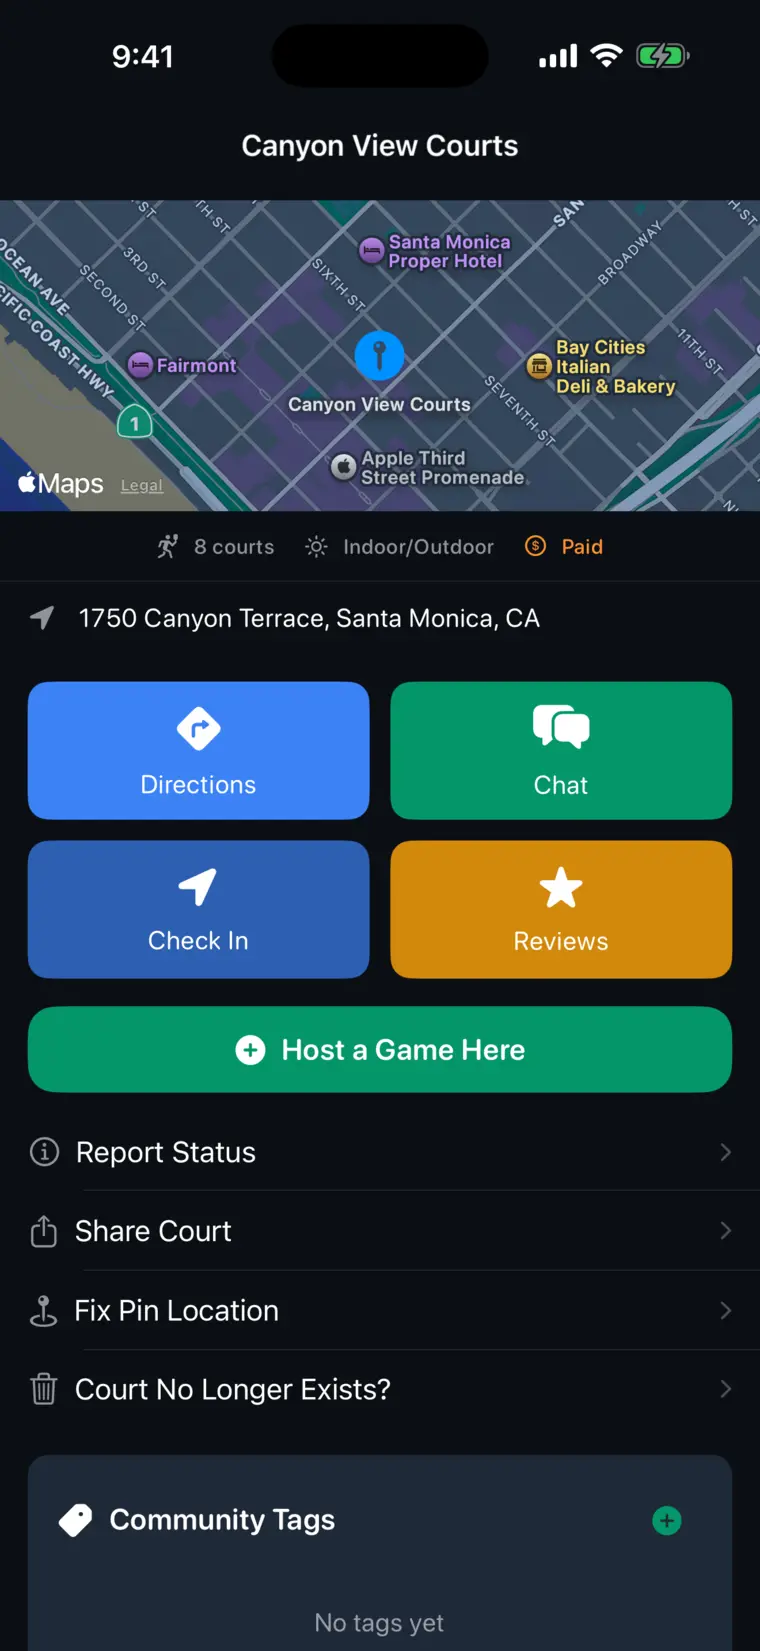
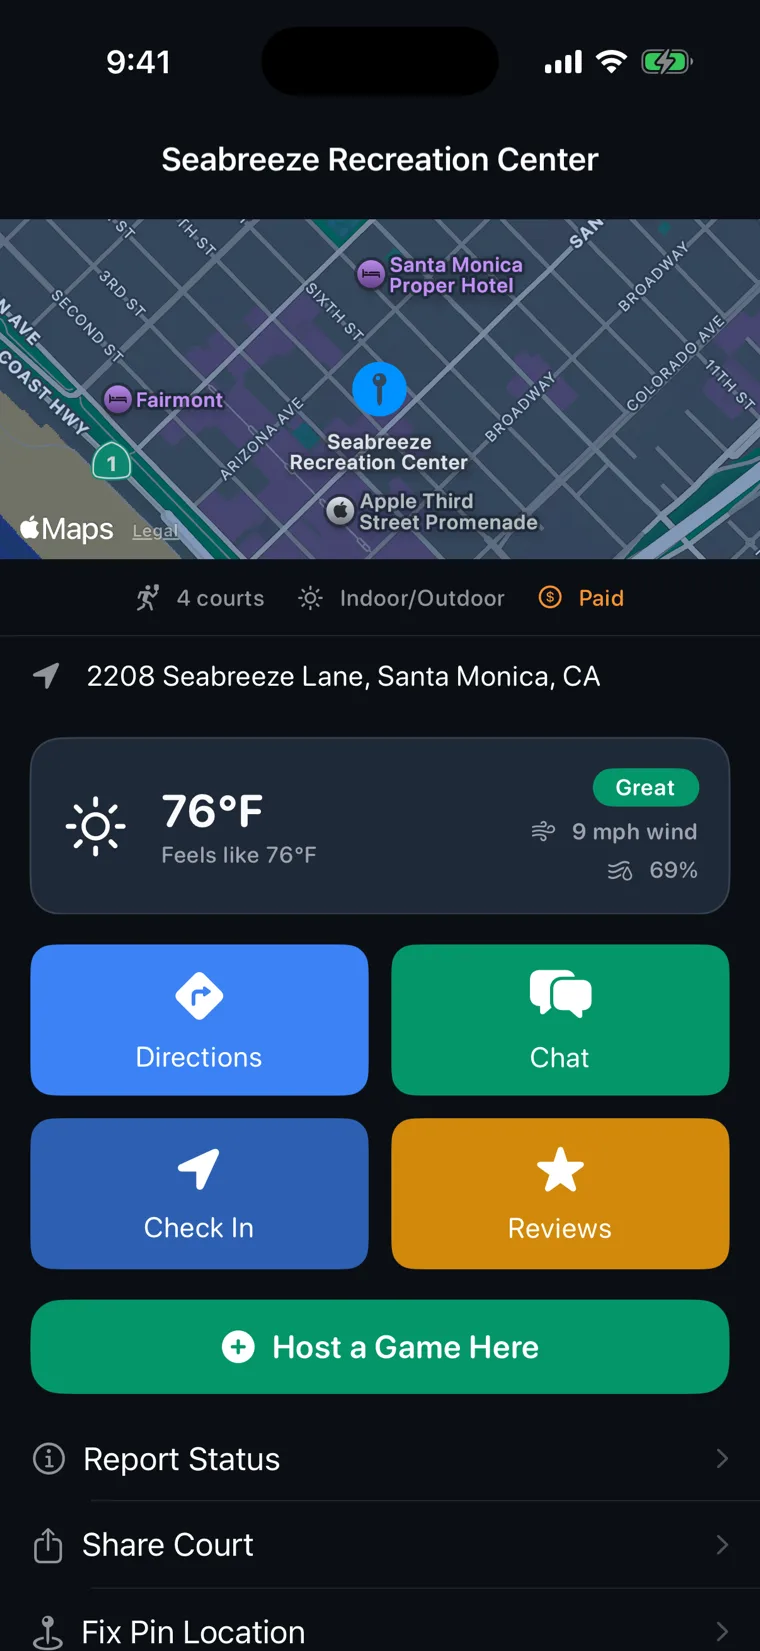
fix(images): the court screen was a build older than the conditions card
You were right. images/app/courts-detail.webp showed the court page as it
looked BEFORE the conditions card shipped — no weather module at all, straight
from the address to the action tiles. It appears six times, including as the
homepage hero's fetchpriority="high" preload, so it was the first thing a
visitor saw of the product.

Replaced from the current master:
qa/marketing-account/raw-captures/2026-08-05-iphone-dark/42-court-detail.png —
dark, correct aspect, fictional fixture venue, and it carries the conditions
card (76F, feels like 76F, Great, 9 mph wind, 69%) the shipping app renders.

What the audit turned up on the way:

  - s2-live-scoring.webp and s6-player-stats.webp on the site are byte-for-byte
    the build-213 captures. Those were already current; courts-detail was the
    outlier.

  - qa/marketing-account/make-web-crops.py already produces TWENTY web crops
    traced to build-213 masters, generated 2026-08-24 under the owner directive
    "reuse the current RAW captures whenever they truthfully show the shipping
    product ... always from the original master". The website uses none of them.
    Worth wiring up properly rather than one file at a time.

  - The Courts MAP tab did change generation: build 213 uses OpenStreetMap
    tiles, a green pin and a bottom-sheet card with "Open Court". The site does
    not show that screen anywhere. The build-213 capture of it carries the blue
[…]

diff --git a/index.html b/index.html
@@ -1359,7 +1359,7 @@ setTimeout(function(){ if (!window.__pcShell) document.documentElement.classList
                          sourced venue names that are now soft-deleted from the
                          app. See docs/website-cro-audit-2026-08-25.md, P0-1. -->
                     <div class="hero-seq">
-                        <img src="/images/app/courts-detail.webp" alt="A PickleCue court page showing court count, indoor and outdoor, price, address and directions" width="760" height="1651" fetchpriority="high" decoding="async">
+                        <img src="/images/app/courts-detail.webp" alt="A PickleCue court page: court count, indoor and outdoor, price, address, current conditions and directions" width="760" height="1651" fetchpriority="high" decoding="async">
                         <img src="/images/app/s2-live-scoring.webp" alt="Live scoring in PickleCue, nine to five, with the serving team marked" width="760" height="1651" loading="lazy" decoding="async">
                         <img src="/images/app/match-result.webp" alt="A finished match with the final score recorded" width="760" height="1651" loading="lazy" decoding="async">
                         <img src="/images/app/bracket-champion.webp" alt="A completed tournament bracket with the champion decided" width="760" height="1651" loading="lazy" decoding="async">
@@ -1444,7 +1444,7 @@ setTimeout(function(){ if (!window.__pcShell) document.documentElement.classList
                     <p class="chapter-no"><span>01</span> Court</p>
                     <h3>Know where to play.</h3>
                     <p>How many courts, indoor or out, free or paid, and the address — before you get in the car. Directions, check-in and a game you can host right there.</p>
-                    <figure class="chapter-shot"><img src="/images/app/courts-detail.webp" alt="A PickleCue court page: eight courts, indoor and outdoor, paid, with the address, directions, check-in and a button to host a game here." width="760" height="1651" loading="lazy" decoding="async"></figure>
+                    <figure class="chapter-shot"><img src="/images/app/courts-detail.webp" alt="A court in PickleCue: four courts, indoor and outdoor, paid, the address, current conditions, and buttons for directions, court chat, check-in and hosting a game here." width="760" height="1651" loading="lazy" decoding="async"></figure>
                 </li>
                 <li class="chapter" id="ch-game">
                     <p class="chapter-no"><span>02</span> Game</p>

diff --git a/clubs.html b/clubs.html
@@ -151,7 +151,7 @@ setTimeout(function(){ if (!window.__pcShell) document.documentElement.classList
                 <h2 style="margin-top:16px">Players find you before they arrive.</h2>
                 <p class="lede">Your venue appears in court search with the details that decide whether someone drives over &mdash; how many courts, indoor or out, free or paid &mdash; plus directions and the games happening there.</p>
             </div>
-            <div><button class="device reveal" data-full="/images/app/courts-detail-full.webp" aria-label="View a venue page in PickleCue full size"><img src="/images/app/courts-detail.webp" alt="A venue page in PickleCue: court count, indoor and outdoor, price, address and directions" loading="lazy" width="760" height="1651"></button></div>
+            <div><button class="device reveal" data-full="/images/app/courts-detail-full.webp" aria-label="View a venue page in PickleCue full size"><img src="/images/app/courts-detail.webp" alt="A venue page in PickleCue: court count, indoor and outdoor, price, address, current conditions and directions" loading="lazy" width="760" height="1651"></button></div>
         </div>
     </div>
 </section>

diff --git a/players.html b/players.html
@@ -156,7 +156,7 @@ setTimeout(function(){ if (!window.__pcShell) document.documentElement.classList
                     <h3>Find somewhere worth the drive.</h3>
                     <p>How many courts, indoor or out, free or paid, and the address &mdash; before you leave. Directions, check-in and the court&rsquo;s own chat are all on the same screen.</p>
                 </div>
-                <figure class="pj-shot"><img src="/images/app/courts-detail.webp" width="760" height="1651" loading="lazy" decoding="async" alt="A court in PickleCue: eight courts, indoor and outdoor, paid, with the address, directions, check-in and a button to host a game here."></figure>
+                <figure class="pj-shot"><img src="/images/app/courts-detail.webp" width="760" height="1651" loading="lazy" decoding="async" alt="A court in PickleCue: four courts, indoor and outdoor, paid, the address, current conditions, and buttons for directions, court chat, check-in and hosting a game here."></figure>
             </li>
 
             <li class="pj-step pj-step-text reveal">

diff --git a/courts/index.html b/courts/index.html
@@ -91,7 +91,7 @@ document.documentElement.setAttribute('data-theme',t||(d?'dark':'light'));}catch
   </div>
   <figure class="cbridge-shot">
     <img src="/images/app/courts-detail.webp" width="760" height="1651" loading="lazy" decoding="async"
-         alt="A venue in PickleCue: eight courts, indoor and outdoor, paid, with the address, directions, check-in, court chat and a button to host a game here.">
+         alt="A venue in PickleCue: four courts, indoor and outdoor, paid, the address, current conditions, and buttons for directions, court chat, check-in and hosting a game here.">
   </figure>
 </section>
 

diff --git a/courts/us.html b/courts/us.html
@@ -91,7 +91,7 @@ document.documentElement.setAttribute('data-theme',t||(d?'dark':'light'));}catch
   </div>
   <figure class="cbridge-shot">
     <img src="/images/app/courts-detail.webp" width="760" height="1651" loading="lazy" decoding="async"
-         alt="A venue in PickleCue: eight courts, indoor and outdoor, paid, with the address, directions, check-in, court chat and a button to host a game here.">
+         alt="A venue in PickleCue: four courts, indoor and outdoor, paid, the address, current conditions, and buttons for directions, court chat, check-in and hosting a game here.">
   </figure>
 </section>
 
